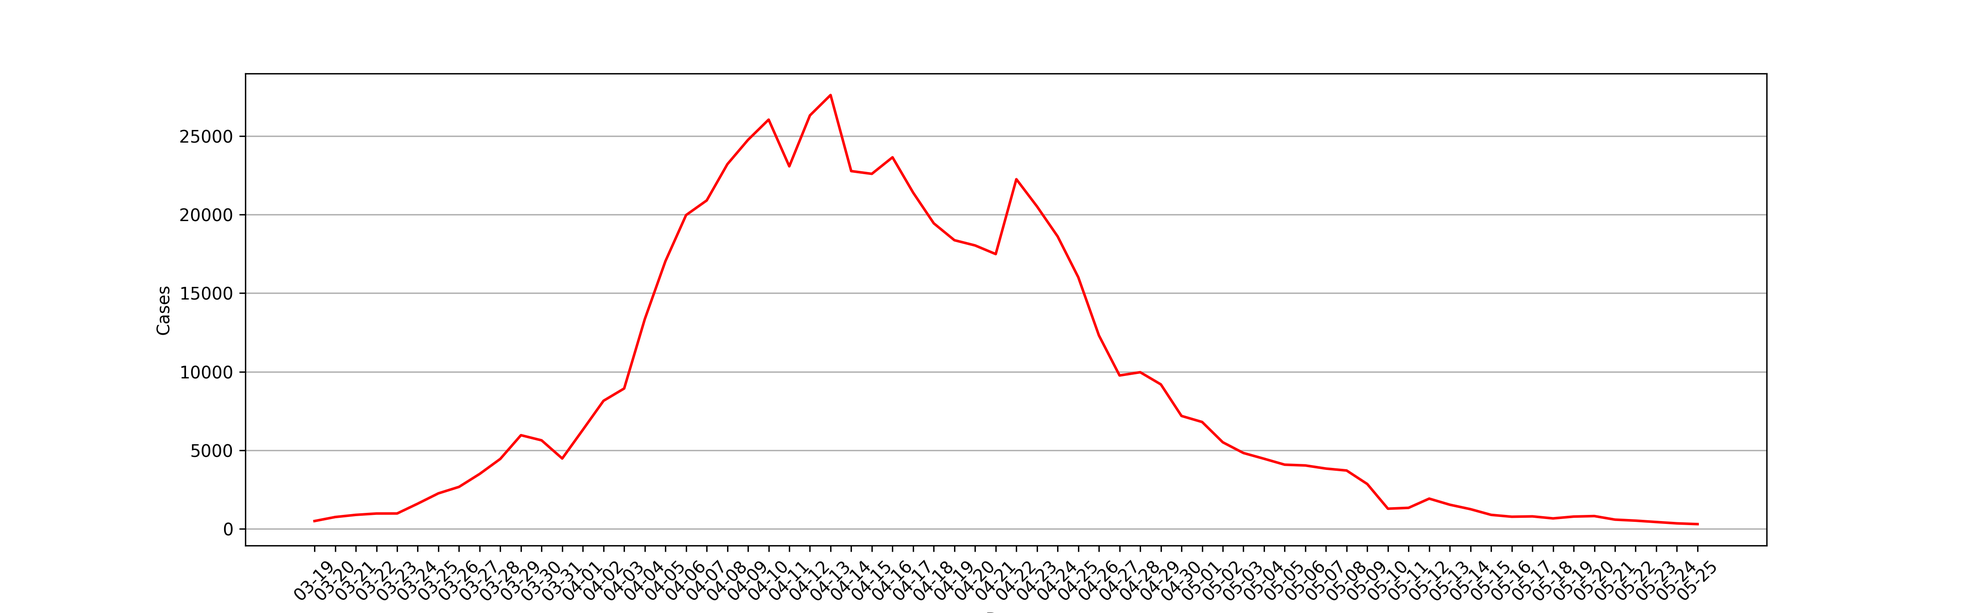
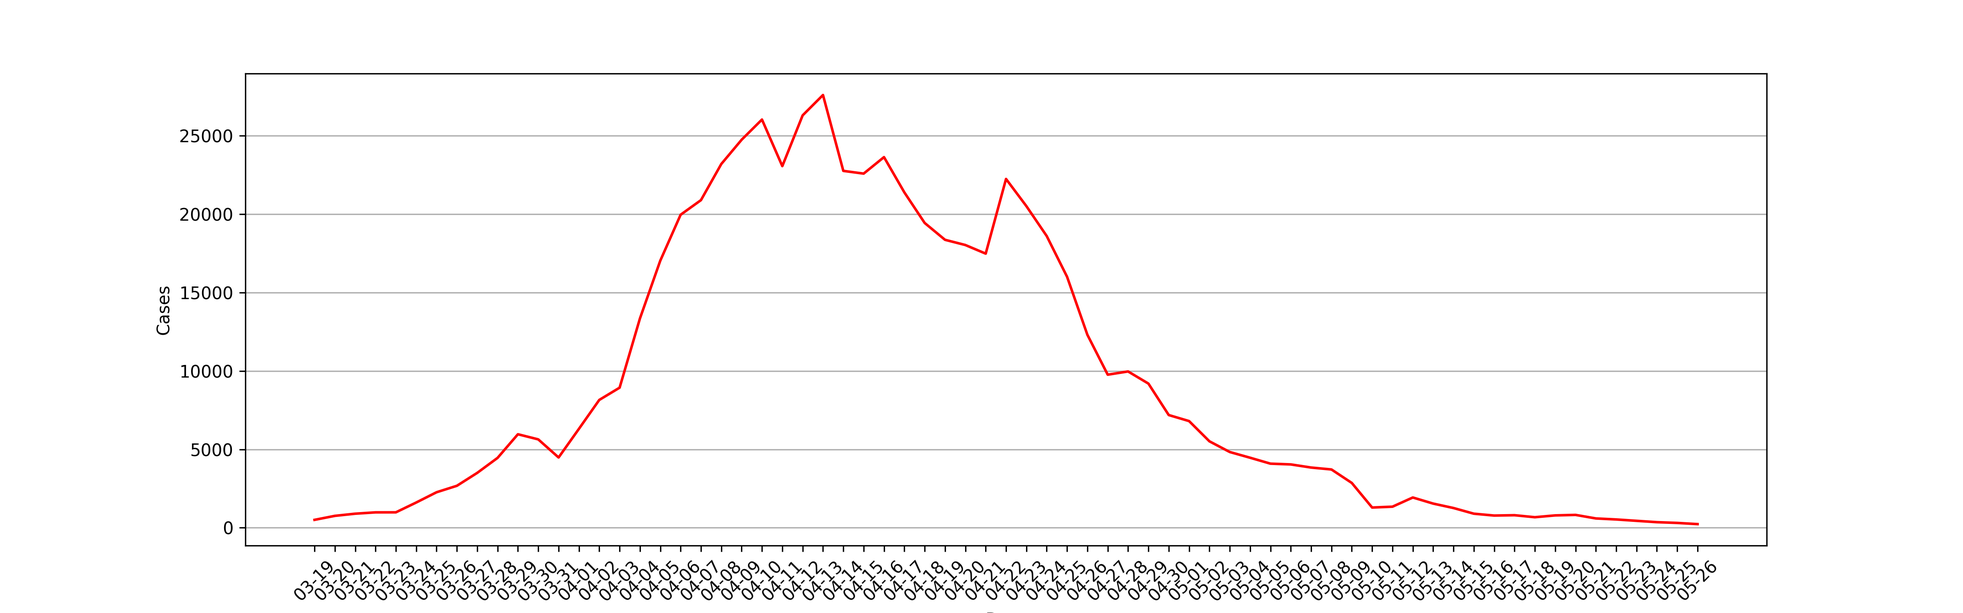
Commit by github action

diff --git a/archived_html/4765c98b92d42ada48abc79d053200a7.html b/archived_html/4765c98b92d42ada48abc79d053200a7.html
@@ -1,0 +1,151 @@
+<!DOCTYPE html>
+<html lang="zh-Hans">
+<head>
+    <meta charset="utf-8">
+    <meta http-equiv="Content-Security-Policy" content="upgrade-insecure-requests">
+    <meta name="viewport" content="width=device-width, initial-scale=1, maximum-scale=1, user-scalable=no">
+    <meta http-equiv="X-UA-Compatible" content="IE=Edge,chrome=1">
+    <meta http-equiv="Cache-Control" content="no-siteapp" />
+    <meta name="renderer" content="webkit">
+    <meta name="apple-mobile-web-app-capable" content="yes" />
+    <meta name="apple-mobile-web-app-status-bar-style" content="black" />
+    <title>上海2022年5月26日，新增本土新冠肺炎确诊病例45例 新增本土无症状感染者219例 新增境外输入性新冠肺炎确诊病例1例 新增境外输入性无症状感染者6例__上海市卫生健康委员会</title>
+    <meta name="ColumnDescription" content="新闻发布"><!-- * -->
+    <meta name="ColumnKeywords" content="新闻发布"><!-- * -->
+    <!--<meta name="ColumnType" content=""> * -->
+    <meta name="ColumnName" content="新闻发布"><!-- * -->
+    <meta name="ArticleTitle" content="上海2022年5月26日，新增本土新冠肺炎确诊病例45例 新增本土无症状感染者219例 新增境外输入性新冠肺炎确诊病例1例 新增境外输入性无症状感染者6例"><!-- * -->
+    <meta name="PubDate" content="2022-05-27"><!-- * -->
+    <meta name="ContentSource" content="上海市卫生健康委员会"><!-- * -->
+    <meta name="Author" content="上海市卫生健康委员会">
+    <meta name="Description" content="" />
+    <meta name="applicable-device" content="pc;mobile">
+    <meta name="location" content="北纬N31°11′51.89″ 东经E121°30′5.42″">
+    <!-- min CSS -->
+    <link rel="stylesheet" href="/assets/css/ETUI/ETUI3.min.css">
+    <!-- Custom CSS -->
+    <link rel="stylesheet" href="/assets/plugin/owl/owl.carousel.css">
+    <link rel="stylesheet" href="/assets/css/style.css">
+    <link rel="stylesheet" href="/assets/css/responsive.css">
+    <link rel="stylesheet" href="/assets/css/ETUI/ETUI3.Utility.css">
+    <!-- icons -->
+    <link rel="shortcut icon" href="/assets/img/ico/favicon.png">
+    <!-- 无障碍工具条 -->
+   <!-- <link rel="stylesheet" href="http://www.shanghai.gov.cn/jhelper_V2.0/jhelper_tool_style.css">
+    <script src="http://www.shanghai.gov.cn/jhelper_V2.0/wsj/jhelper_config.js" charset="gb2312"></script>
+    <noscript>不能读取工具条配置</noscript>
+    <script src="http://www.shanghai.gov.cn/jhelper_V2.0/jhelper_2.0.js" charset="gb2312"></script>
+    <noscript>不能读取工具条</noscript> 
+     -->
+    <script type="text/javascript">
+        function onsubmmit(pageIndex){
+            $("#pageIndex").val(1);
+            $("#searchField").val("0");
+            $("#timeScope").val("0");
+            $("#cmsSearchId").val("0");
+            $("#searchForm").submit();
+        }
+        function onselsubmmit(){
+            $("#pageIndex").val(1);
+            $("#searchForm").submit();
+        }
+        function psubmmit(pageIndex){
+            $("#pageIndex").val(pageIndex);
+            $("#searchForm").submit();
+        }
+        // 栏目
+        function chsubmmit(searchChId){
+            $("#pageIndex").val(1);
+            $("#searchField").val("0");
+            $("#timeScope").val("0");
+            $("#cmsSearchId").val(searchChId);
+            $("#searchForm").submit();
+        }
+    </script> 
+    <!-- 无障碍工具条 -->
+</head>
+<body>
+    <div id="accessNull"></div>
+    <div id="container">
+        <div class="channelinfo hidden"></div>
+        <script src="/assets/js/header.js"></script>
+        <div class="main" id="main">
+            <script src="/assets/js/jiansuo.js"></script>
+            <div class="main-container margin-top-15">
+                <div class="container ">
+                    <div class="relitive">
+                        <ol class="breadcrumb">
+                           <span>您现在所在的位置：</span>
+                            <li><a href="/index.html">首页</a></li>
+                            <li class="active">新闻中心</li>
+                           
+                            <li class="active">新闻发布</li>
+                           
+                        </ol>
+                        <div class="date-se">
+                            <i class="iconfont">&#xe60b;</i> <span id="time"></span>
+                        </div>
+                    </div>
+
+                    <div class="Article">
+                        <h2 id="ivs_title" class="Article-title">上海2022年5月26日，新增本土新冠肺炎确诊病例45例 新增本土无症状感染者219例 新增境外输入性新冠肺炎确诊病例1例 新增境外输入性无症状感染者6例</br>
+                         <h2 class="Article-title">
+                            <small id="ivs_date" class="Article-time">( 2022-05-27)</small>
+                        </h2>
+                        <div id="ivs_player" style="text-align:center;"></div>
+                        <div id="ivs_content" class="Article_content">
+                           
+                                 <p style="font-size: medium;white-space: normal;margin-top: 10px;text-indent: 40px"><span style="font-size: 20px;font-family: 仿宋_GB2312">市卫健委今早（27日）通报：2022年5月26日0—24时，新增本土新冠肺炎确诊病例45例和无症状感染者219例，其中33例确诊病例为既往无症状感染者转归，12例确诊病例和219例无症状感染者在隔离管控中发现。新增境外输入性确诊病例1例和无症状感染者6例，均在闭环管控中发现。</span></p><p style="font-size: medium;white-space: normal;margin-top: 10px;text-indent: 40px"><span style="font-size: 20px;font-family: 仿宋_GB2312">2022</span><span style="font-size: 20px;font-family: 仿宋_GB2312">年5月26日0—24时，新增本土新冠肺炎确诊病例45例，含33例由既往无症状感染者转为确诊病例。新增治愈出院128例。</span></p><p style="font-size: medium;white-space: normal;margin-top: 10px;text-indent: 40px"><strong><span style="font-size: 20px;font-family: 黑体">病例1</span></strong><span style="font-size: 20px;font-family: 仿宋_GB2312">，居住于徐汇区，</span><strong><span style="font-size: 20px;font-family: 黑体">病例2、病例3</span></strong><span style="font-size: 20px;font-family: 仿宋_GB2312">，居住于静安区，</span><strong><span style="font-size: 20px;font-family: 黑体">病例4</span></strong><span style="font-size: 20px;font-family: 仿宋_GB2312">，居住于普陀区，</span><strong><span style="font-size: 20px;font-family: 黑体">病例5—病例7</span></strong><span style="font-size: 20px;font-family: 仿宋_GB2312">，居住于虹口区，</span><strong><span style="font-size: 20px;font-family: 黑体">病例8—病例10</span></strong><span style="font-size: 20px;font-family: 仿宋_GB2312">，居住于杨浦区，</span><strong><span style="font-size: 20px;font-family: 黑体">病例11、病例12</span></strong><span style="font-size: 20px;font-family: 仿宋_GB2312">，居住于闵行区，均为本市闭环隔离管控人员，其间新冠病毒核酸检测结果异常，经疾控中心复核结果为阳性。经市级专家会诊，综合流行病学史、临床症状、实验室检测和影像学检查结果等，诊断为确诊病例。</span></p><p style="font-size: medium;white-space: normal;margin-top: 10px;text-indent: 40px"><strong><span style="font-size: 20px;font-family: 黑体">病例13</span></strong><span style="font-size: 20px;font-family: 仿宋_GB2312">，居住于黄浦区，</span><strong><span style="font-size: 20px;font-family: 黑体">病例14</span></strong><span style="font-size: 20px;font-family: 仿宋_GB2312">，居住于徐汇区，</span><strong><span style="font-size: 20px;font-family: 黑体">病例15、病例16</span></strong><span style="font-size: 20px;font-family: 仿宋_GB2312">，居住于静安区，</span><strong><span style="font-size: 20px;font-family: 黑体">病例17、病例18</span></strong><span style="font-size: 20px;font-family: 仿宋_GB2312">，居住于虹口区，</span><strong><span style="font-size: 20px;font-family: 黑体">病例19—病例39</span></strong><span style="font-size: 20px;font-family: 仿宋_GB2312">，居住于杨浦区，</span><strong><span style="font-size: 20px;font-family: 黑体">病例40、病例41</span></strong><span style="font-size: 20px;font-family: 仿宋_GB2312">，居住于闵行区，</span><strong><span style="font-size: 20px;font-family: 黑体">病例42—病例44</span></strong><span style="font-size: 20px;font-family: 仿宋_GB2312">，居住于宝山区，</span><strong><span style="font-size: 20px;font-family: 黑体">病例45</span></strong><span style="font-size: 20px;font-family: 仿宋_GB2312">，居住于嘉定区，</span><span style="font-size: 20px;font-family: 仿宋_GB2312">为此前报告的本土无症状感染者。</span><span style="font-size: 20px;font-family: 仿宋_GB2312">经市级专家会诊，综合流行病学史、临床症状、实验室检测和影像学检查结果等，诊断为确诊病例。</span></p><p style="font-size: medium;white-space: normal;text-indent: 40px"><span style="font-size: 20px;font-family: 仿宋_GB2312">2022</span><span style="font-size: 20px;font-family: 仿宋_GB2312">年5月26日0—24时，新增本土死亡1例。患者女性，87岁，合并有冠心病、急性心功能不全、I型呼吸衰竭、高血压、糖尿病等基础疾病，入院后因病情加重，抢救无效死亡。死亡原因为基础疾病。</span></p><p style="font-size: medium;white-space: normal;margin-top: 10px;text-indent: 40px"><span style="font-size: 20px;font-family: 仿宋_GB2312">2022</span><span style="font-size: 20px;font-family: 仿宋_GB2312">年5月26日0—24时，新增本土无症状感染者219例。</span></p><p style="font-size: medium;white-space: normal;text-indent: 40px"><strong><span style="font-size: 20px;font-family: 黑体">无症状感染者1—无症状感染者35</span></strong><span style="font-size: 20px;font-family: 仿宋_GB2312">，居住于浦东新区，</span><strong><span style="font-size: 20px;font-family: 黑体">无症状感染者36—无症状感染者53</span></strong><span style="font-size: 20px;font-family: 仿宋_GB2312">，居住于黄浦区，</span><strong><span style="font-size: 20px;font-family: 黑体">无症状感染者54—无症状感染者69</span></strong><span style="font-size: 20px;font-family: 仿宋_GB2312">，居住于徐汇区，</span><strong><span style="font-size: 20px;font-family: 黑体">无症状感染者70—无症状感染者77</span></strong><span style="font-size: 20px;font-family: 仿宋_GB2312">，居住于长宁区，</span><strong><span style="font-size: 20px;font-family: 黑体">无症状感染者78—无症状感染者105</span></strong><span style="font-size: 20px;font-family: 仿宋_GB2312">，居住于静安区，</span><strong><span style="font-size: 20px;font-family: 黑体">无症状感染者106—无症状感染者110</span></strong><span style="font-size: 20px;font-family: 仿宋_GB2312">，居住于普陀区，</span><strong><span style="font-size: 20px;font-family: 黑体">无症状感染者111—无症状感染者135</span></strong><span style="font-size: 20px;font-family: 仿宋_GB2312">，居住于虹口区，</span><strong><span style="font-size: 20px;font-family: 黑体">无症状感染者136—无症状感染者184</span></strong><span style="font-size: 20px;font-family: 仿宋_GB2312">，居住于杨浦区，</span><strong><span style="font-size: 20px;font-family: 黑体">无症状感染者185—无症状感染者195</span></strong><span style="font-size: 20px;font-family: 仿宋_GB2312">，居住于闵行区，</span><strong><span style="font-size: 20px;font-family: 黑体">无症状感染者196—无症状感染者210</span></strong><span style="font-size: 20px;font-family: 仿宋_GB2312">，居住于宝山区，</span><strong><span style="font-size: 20px;font-family: 黑体">无症状感染者211—无症状感染者213</span></strong><span style="font-size: 20px;font-family: 仿宋_GB2312">，居住于嘉定区，</span><strong><span style="font-size: 20px;font-family: 黑体">无症状感染者214、无症状感染者215</span></strong><span style="font-size: 20px;font-family: 仿宋_GB2312">，居住于松江区，</span><strong><span style="font-size: 20px;font-family: 黑体">无症状感染者216—无症状感染者219</span></strong><span style="font-size: 20px;font-family: 仿宋_GB2312">，居住于青浦区，</span><span style="font-size: 20px;font-family: 仿宋_GB2312">均为本市闭环隔离管控人员，其间新冠病毒核酸检测结果</span><span style="font-size: 20px;font-family: 仿宋_GB2312">异常，经疾控中心复核结果为阳性，诊断为无症状感染者。</span></p><p style="font-size: medium;white-space: normal;text-indent: 40px"><span style="font-size: 20px;font-family: 仿宋_GB2312">2022</span><span style="font-size: 20px;font-family: 仿宋_GB2312">年5月26日0—24时，</span><span style="font-size: 20px;font-family: 仿宋_GB2312">通过口岸联防联控机制，报告1例新增境外输入性新冠肺炎确诊病例。</span></p><p style="font-size: medium;white-space: normal;text-indent: 40px"><strong><span style="font-size: 20px;font-family: 黑体">该病例</span></strong><span style="font-size: 20px;font-family: 仿宋_GB2312">为中国籍，在蒙古工作，自蒙古出发，经德国转机，于2022年5月24日抵达上海浦东国际机场，入关后即被集中隔离观察，其间出现症状。综合流行病学史、临床症状、实验室检测和影像学检查结果等，诊断为确诊病例。</span></p><p style="font-size: medium;white-space: normal;text-indent: 40px"><span style="font-size: 20px;font-family: 仿宋_GB2312">该境外输入性确诊病例已转至定点医疗机构救治，已追踪同航班密切接触者38人，均已落实集中隔离观察。</span></p><p style="font-size: medium;white-space: normal;text-indent: 40px"><span style="font-size: 20px;font-family: 仿宋_GB2312">2022</span><span style="font-size: 20px;font-family: 仿宋_GB2312">年5月26日0—24时，新增境外输入性无症状感染者6例。</span></p><p style="font-size: medium;white-space: normal;text-indent: 40px"><strong><span style="font-size: 20px;font-family: 黑体">无症状感染者1</span></strong><span style="font-size: 20px;font-family: 仿宋_GB2312">为中国籍，在巴西工作，自巴西出发，经荷兰转机，于2022年5月18日抵达上海浦东国际机场，入关后即被集中隔离观察，其间例行核酸检测异常。经排查，区疾控中心新冠病毒核酸检测结果为阳性。综合流行病学史、临床症状、实验室检测和影像学检查结果等，诊断为无症状感染者。</span></p><p style="font-size: medium;white-space: normal;text-indent: 40px"><strong><span style="font-size: 20px;font-family: 黑体">无症状感染者2</span></strong><span style="font-size: 20px;font-family: 仿宋_GB2312">为中国籍，在英国留学，自英国出发，经丹麦转机，于2022年5月18日抵达上海浦东国际机场，入关后即被集中隔离观察，其间例行核酸检测异常。经排查，区疾控中心新冠病毒核酸检测结果为阳性。综合流行病学史、临床症状、实验室检测和影像学检查结果等，诊断为无症状感染者。</span></p><p style="font-size: medium;white-space: normal;text-indent: 40px"><strong><span style="font-size: 20px;font-family: 黑体">无症状感染者3</span></strong><span style="font-size: 20px;font-family: 仿宋_GB2312">为中国籍，在美国留学，自美国出发，于2022年5月19日抵达上海浦东国际机场，入关后即被集中隔离观察，其间例行核酸检测异常。经排查，区疾控中心新冠病毒核酸检测结果为阳性。综合流行病学史、临床症状、实验室检测和影像学检查结果等，诊断为无症状感染者。</span></p><p style="font-size: medium;white-space: normal;text-indent: 40px"><strong><span style="font-size: 20px;font-family: 黑体">无症状感染者4</span></strong><span style="font-size: 20px;font-family: 仿宋_GB2312">为中国籍，在美国留学，自美国出发，于2022年5月23日抵达上海浦东国际机场，入关后即被集中隔离观察，其间例行核酸检测异常。经排查，区疾控中心新冠病毒核酸检测结果为阳性。综合流行病学史、临床症状、实验室检测和影像学检查结果等，诊断为无症状感染者。</span></p><p style="font-size: medium;white-space: normal;text-indent: 40px"><strong><span style="font-size: 20px;font-family: 黑体">无症状感染者5</span></strong><span style="font-size: 20px;font-family: 仿宋_GB2312">为中国籍，在巴西工作，自巴西出发，经德国转机，于2022年5月24日抵达上海浦东国际机场，入关后即被集中隔离观察，其间例行核酸检测异常。经排查，区疾控中心新冠病毒核酸检测结果为阳性。综合流行病学史、临床症状、实验室检测和影像学检查结果等，诊断为无症状感染者。</span></p><p style="font-size: medium;white-space: normal;text-indent: 40px"><strong><span style="font-size: 20px;font-family: 黑体">无症状感染者6</span></strong><span style="font-size: 20px;font-family: 仿宋_GB2312">为中国籍，在美国留学，自美国出发，于2022年5月25日抵达上海浦东国际机场，入关后即被集中隔离观察，其间例行核酸检测异常。经排查，区疾控中心新冠病毒核酸检测结果为阳性。综合流行病学史、临床症状、实验室检测和影像学检查结果等，诊断为无症状感染者。</span></p><p style="font-size: medium;white-space: normal;text-indent: 40px"><span style="font-size: 20px;font-family: 仿宋_GB2312">6</span><span style="font-size: 20px;font-family: 仿宋_GB2312">例境外输入性无症状感染者已转至定点医疗机构医学观察，已追踪同航班密切接触者39人，均已落实集中隔离观察。</span></p><p style="font-size: medium;white-space: normal;text-indent: 40px"><span style="font-size: 20px;font-family: 仿宋_GB2312">2022</span><span style="font-size: 20px;font-family: 仿宋_GB2312">年5月26日0—24时，解除医学观察无症状感染者2905例，其中本土无症状感染者2903例，境外输入性无症状感染者2例。</span></p><p style="font-size: medium;white-space: normal;margin-top: 10px;text-indent: 40px;vertical-align: baseline"><span style="font-size: 20px;font-family: 仿宋_GB2312">2022</span><span style="font-size: 20px;font-family: 仿宋_GB2312">年2月26日0时至2022年5月26日24时，累计本土确诊57912例，治愈出院55515例，在院治疗1809例（其中重型119例，危重型33例），死亡588。现有待排查的疑似病例0例。</span></p><p style="font-size: medium;white-space: normal;margin-top: 10px;text-indent: 40px;vertical-align: baseline"><span style="font-size: 20px;font-family: 仿宋_GB2312">截至2022年5月26日24时，累计境外输入性确诊病例4607例，出院4599例，在院治疗8例。现有待排查的疑似病例0例。</span></p><p style="font-size: medium;white-space: normal;margin-top: 10px;text-indent: 40px;vertical-align: baseline"><span style="font-size: 20px;font-family: 仿宋_GB2312">&nbsp;</span></p><table align="center" cellspacing="0" cellpadding="0" width="544"><tbody><tr style="height: 24px" class="firstRow"><td width="379" colspan="2" style="border-width: 1px; border-color: windowtext; padding: 0px 7px; border-style: solid;" height="24"><p style="text-align: center;vertical-align: baseline"><strong><span style="font-size: 19px;font-family: 仿宋_GB2312">区域</span></strong></p></td><td width="165" style="border-width: 1px; border-top-color: windowtext; border-right-color: windowtext; border-bottom-color: windowtext; border-style: solid; border-left-color: initial; padding: 0px 7px;" height="24"><p style="text-align: center;vertical-align: baseline"><strong><span style="font-size: 19px;font-family: 仿宋_GB2312">在院治疗确诊病例</span></strong></p></td></tr><tr style="height: 42px"><td width="213" rowspan="5" style="border-width: 1px; border-right-color: windowtext; border-bottom-color: windowtext; border-left-color: windowtext; border-style: solid; border-top-color: initial; padding: 0px 7px;" height="42"><p style="text-align: center;vertical-align: baseline"><span style="font-size: 19px;font-family: 仿宋_GB2312">境外输入人员</span></p><p style="text-align: center;vertical-align: baseline"><span style="font-size: 19px;font-family: 仿宋_GB2312">（按输入地分）</span></p></td><td width="165" valign="top" style="border-width: 1px; border-style: solid; border-top-color: initial; border-left-color: initial; border-bottom-color: windowtext; border-right-color: windowtext; padding: 0px 7px;" height="42"><p style="text-align: center;vertical-align: middle"><span style="font-size: 19px;font-family: 仿宋_GB2312">美国</span></p></td><td width="165" valign="top" style="border-width: 1px; border-style: solid; border-top-color: initial; border-left-color: initial; border-bottom-color: windowtext; border-right-color: windowtext; padding: 0px 7px;" height="42"><p style="text-align: center;vertical-align: middle"><span style="font-size: 19px;font-family: 仿宋_GB2312">4</span></p></td></tr><tr style="height: 42px"><td width="165" valign="top" style="border-width: 1px; border-style: solid; border-top-color: initial; border-left-color: initial; border-bottom-color: windowtext; border-right-color: windowtext; padding: 0px 7px;" height="42"><p style="text-align: center;vertical-align: middle"><span style="font-size: 19px;font-family: 仿宋_GB2312">新加坡</span></p></td><td width="165" valign="top" style="border-width: 1px; border-style: solid; border-top-color: initial; border-left-color: initial; border-bottom-color: windowtext; border-right-color: windowtext; padding: 0px 7px;" height="42"><p style="text-align: center;vertical-align: middle"><span style="font-size: 19px;font-family: 仿宋_GB2312">1</span></p></td></tr><tr style="height: 42px"><td width="165" valign="top" style="border-width: 1px; border-style: solid; border-top-color: initial; border-left-color: initial; border-bottom-color: windowtext; border-right-color: windowtext; padding: 0px 7px;" height="42"><p style="text-align: center;vertical-align: middle"><span style="font-size: 19px;font-family: 仿宋_GB2312">加拿大</span></p></td><td width="165" valign="top" style="border-width: 1px; border-style: solid; border-top-color: initial; border-left-color: initial; border-bottom-color: windowtext; border-right-color: windowtext; padding: 0px 7px;" height="42"><p style="text-align: center;vertical-align: middle"><span style="font-size: 19px;font-family: 仿宋_GB2312">1</span></p></td></tr><tr style="height: 42px"><td width="165" valign="top" style="border-width: 1px; border-style: solid; border-top-color: initial; border-left-color: initial; border-bottom-color: windowtext; border-right-color: windowtext; padding: 0px 7px;" height="42"><p style="text-align: center;vertical-align: middle"><span style="font-size: 19px;font-family: 仿宋_GB2312">刚果（金）</span></p></td><td width="165" valign="top" style="border-width: 1px; border-style: solid; border-top-color: initial; border-left-color: initial; border-bottom-color: windowtext; border-right-color: windowtext; padding: 0px 7px;" height="42"><p style="text-align: center;vertical-align: middle"><span style="font-size: 19px;font-family: 仿宋_GB2312">1</span></p></td></tr><tr style="height: 42px"><td width="165" valign="top" style="border-width: 1px; border-style: solid; border-top-color: initial; border-left-color: initial; border-bottom-color: windowtext; border-right-color: windowtext; padding: 0px 7px;" height="42"><p style="text-align: center;vertical-align: middle"><span style="font-size: 19px;font-family: 仿宋_GB2312">蒙古</span></p></td><td width="165" valign="top" style="border-width: 1px; border-style: solid; border-top-color: initial; border-left-color: initial; border-bottom-color: windowtext; border-right-color: windowtext; padding: 0px 7px;" height="42"><p style="text-align: center;vertical-align: middle"><span style="font-size: 19px;font-family: 仿宋_GB2312">1</span></p></td></tr><tr style="height: 33px"><td width="213" rowspan="16" style="border-width: 1px; border-right-color: windowtext; border-bottom-color: windowtext; border-left-color: windowtext; border-style: solid; border-top-color: initial; padding: 0px 7px;" height="33"><p style="text-indent: 19px;vertical-align: baseline"><span style="font-size: 19px;font-family: 仿宋_GB2312">本市居住或工作地</span></p></td><td width="165" style="border-width: 1px; border-style: solid; border-top-color: initial; border-left-color: initial; border-bottom-color: windowtext; border-right-color: windowtext; padding: 0px 7px;" height="33"><p style="text-align: center;vertical-align: middle"><span style="font-size: 19px;font-family: 仿宋_GB2312">浦东</span></p></td><td width="165" style="border-width: 1px; border-style: solid; border-top-color: initial; border-left-color: initial; border-bottom-color: windowtext; border-right-color: windowtext; padding: 0px 7px;" height="33"><p style="text-align: center"><span style="font-size: 19px;font-family: 仿宋_GB2312">66</span></p></td></tr><tr style="height: 33px"><td width="165" style="border-width: 1px; border-style: solid; border-top-color: initial; border-left-color: initial; border-bottom-color: windowtext; border-right-color: windowtext; padding: 0px 7px;" height="33"><p style="text-align: center;vertical-align: middle"><span style="font-size: 19px;font-family: 仿宋_GB2312">黄浦</span></p></td><td width="165" style="border-width: 1px; border-style: solid; border-top-color: initial; border-left-color: initial; border-bottom-color: windowtext; border-right-color: windowtext; padding: 0px 7px;" height="33"><p style="text-align: center"><span style="font-size: 19px;font-family: 仿宋_GB2312">243</span></p></td></tr><tr style="height: 33px"><td width="165" style="border-width: 1px; border-style: solid; border-top-color: initial; border-left-color: initial; border-bottom-color: windowtext; border-right-color: windowtext; padding: 0px 7px;" height="33"><p style="text-align: center;vertical-align: middle"><span style="font-size: 19px;font-family: 仿宋_GB2312">徐汇</span></p></td><td width="165" style="border-width: 1px; border-style: solid; border-top-color: initial; border-left-color: initial; border-bottom-color: windowtext; border-right-color: windowtext; padding: 0px 7px;" height="33"><p style="text-align: center"><span style="font-size: 19px;font-family: 仿宋_GB2312">291</span></p></td></tr><tr style="height: 33px"><td width="165" style="border-width: 1px; border-style: solid; border-top-color: initial; border-left-color: initial; border-bottom-color: windowtext; border-right-color: windowtext; padding: 0px 7px;" height="33"><p style="text-align: center;vertical-align: middle"><span style="font-size: 19px;font-family: 仿宋_GB2312">长宁</span></p></td><td width="165" style="border-width: 1px; border-style: solid; border-top-color: initial; border-left-color: initial; border-bottom-color: windowtext; border-right-color: windowtext; padding: 0px 7px;" height="33"><p style="text-align: center"><span style="font-size: 19px;font-family: 仿宋_GB2312">97</span></p></td></tr><tr style="height: 33px"><td width="165" style="border-width: 1px; border-style: solid; border-top-color: initial; border-left-color: initial; border-bottom-color: windowtext; border-right-color: windowtext; padding: 0px 7px;" height="33"><p style="text-align: center;vertical-align: middle"><span style="font-size: 19px;font-family: 仿宋_GB2312">静安</span></p></td><td width="165" style="border-width: 1px; border-style: solid; border-top-color: initial; border-left-color: initial; border-bottom-color: windowtext; border-right-color: windowtext; padding: 0px 7px;" height="33"><p style="text-align: center"><span style="font-size: 19px;font-family: 仿宋_GB2312">290</span></p></td></tr><tr style="height: 33px"><td width="165" style="border-width: 1px; border-style: solid; border-top-color: initial; border-left-color: initial; border-bottom-color: windowtext; border-right-color: windowtext; padding: 0px 7px;" height="33"><p style="text-align: center;vertical-align: middle"><span style="font-size: 19px;font-family: 仿宋_GB2312">普陀</span></p></td><td width="165" style="border-width: 1px; border-style: solid; border-top-color: initial; border-left-color: initial; border-bottom-color: windowtext; border-right-color: windowtext; padding: 0px 7px;" height="33"><p style="text-align: center"><span style="font-size: 19px;font-family: 仿宋_GB2312">133</span></p></td></tr><tr style="height: 33px"><td width="165" style="border-width: 1px; border-style: solid; border-top-color: initial; border-left-color: initial; border-bottom-color: windowtext; border-right-color: windowtext; padding: 0px 7px;" height="33"><p style="text-align: center;vertical-align: middle"><span style="font-size: 19px;font-family: 仿宋_GB2312">虹口</span></p></td><td width="165" style="border-width: 1px; border-style: solid; border-top-color: initial; border-left-color: initial; border-bottom-color: windowtext; border-right-color: windowtext; padding: 0px 7px;" height="33"><p style="text-align: center"><span style="font-size: 19px;font-family: 仿宋_GB2312">223</span></p></td></tr><tr style="height: 33px"><td width="165" style="border-width: 1px; border-style: solid; border-top-color: initial; border-left-color: initial; border-bottom-color: windowtext; border-right-color: windowtext; padding: 0px 7px;" height="33"><p style="text-align: center;vertical-align: middle"><span style="font-size: 19px;font-family: 仿宋_GB2312">杨浦</span></p></td><td width="165" style="border-width: 1px; border-style: solid; border-top-color: initial; border-left-color: initial; border-bottom-color: windowtext; border-right-color: windowtext; padding: 0px 7px;" height="33"><p style="text-align: center"><span style="font-size: 19px;font-family: 仿宋_GB2312">431</span></p></td></tr><tr style="height: 33px"><td width="165" style="border-width: 1px; border-style: solid; border-top-color: initial; border-left-color: initial; border-bottom-color: windowtext; border-right-color: windowtext; padding: 0px 7px;" height="33"><p style="text-align: center;vertical-align: middle"><span style="font-size: 19px;font-family: 仿宋_GB2312">闵行</span></p></td><td width="165" style="border-width: 1px; border-style: solid; border-top-color: initial; border-left-color: initial; border-bottom-color: windowtext; border-right-color: windowtext; padding: 0px 7px;" height="33"><p style="text-align: center"><span style="font-size: 19px;font-family: 仿宋_GB2312">9</span></p></td></tr><tr style="height: 33px"><td width="165" style="border-width: 1px; border-style: solid; border-top-color: initial; border-left-color: initial; border-bottom-color: windowtext; border-right-color: windowtext; padding: 0px 7px;" height="33"><p style="text-align: center;vertical-align: middle"><span style="font-size: 19px;font-family: 仿宋_GB2312">宝山</span></p></td><td width="165" style="border-width: 1px; border-style: solid; border-top-color: initial; border-left-color: initial; border-bottom-color: windowtext; border-right-color: windowtext; padding: 0px 7px;" height="33"><p style="text-align: center"><span style="font-size: 19px;font-family: 仿宋_GB2312">8</span></p></td></tr><tr style="height: 33px"><td width="165" style="border-width: 1px; border-style: solid; border-top-color: initial; border-left-color: initial; border-bottom-color: windowtext; border-right-color: windowtext; padding: 0px 7px;" height="33"><p style="text-align: center;vertical-align: middle"><span style="font-size: 19px;font-family: 仿宋_GB2312">嘉定</span></p></td><td width="165" style="border-width: 1px; border-style: solid; border-top-color: initial; border-left-color: initial; border-bottom-color: windowtext; border-right-color: windowtext; padding: 0px 7px;" height="33"><p style="text-align: center"><span style="font-size: 19px;font-family: 仿宋_GB2312">2</span></p></td></tr><tr style="height: 33px"><td width="165" style="border-width: 1px; border-style: solid; border-top-color: initial; border-left-color: initial; border-bottom-color: windowtext; border-right-color: windowtext; padding: 0px 7px;" height="33"><p style="text-align: center;vertical-align: middle"><span style="font-size: 19px;font-family: 仿宋_GB2312">金山</span></p></td><td width="165" style="border-width: 1px; border-style: solid; border-top-color: initial; border-left-color: initial; border-bottom-color: windowtext; border-right-color: windowtext; padding: 0px 7px;" height="33"><p style="text-align: center"><span style="font-size: 19px;font-family: 仿宋_GB2312">1</span></p></td></tr><tr style="height: 33px"><td width="165" style="border-width: 1px; border-style: solid; border-top-color: initial; border-left-color: initial; border-bottom-color: windowtext; border-right-color: windowtext; padding: 0px 7px;" height="33"><p style="text-align: center;vertical-align: middle"><span style="font-size: 19px;font-family: 仿宋_GB2312">松江</span></p></td><td width="165" style="border-width: 1px; border-style: solid; border-top-color: initial; border-left-color: initial; border-bottom-color: windowtext; border-right-color: windowtext; padding: 0px 7px;" height="33"><p style="text-align: center"><span style="font-size: 19px;font-family: 仿宋_GB2312">1</span></p></td></tr><tr style="height: 33px"><td width="165" style="border-width: 1px; border-style: solid; border-top-color: initial; border-left-color: initial; border-bottom-color: windowtext; border-right-color: windowtext; padding: 0px 7px;" height="33"><p style="text-align: center;vertical-align: middle"><span style="font-size: 19px;font-family: 仿宋_GB2312">青浦</span></p></td><td width="165" style="border-width: 1px; border-style: solid; border-top-color: initial; border-left-color: initial; border-bottom-color: windowtext; border-right-color: windowtext; padding: 0px 7px;" height="33"><p style="text-align: center"><span style="font-size: 19px;font-family: 仿宋_GB2312">1</span></p></td></tr><tr style="height: 33px"><td width="165" style="border-width: 1px; border-style: solid; border-top-color: initial; border-left-color: initial; border-bottom-color: windowtext; border-right-color: windowtext; padding: 0px 7px;" height="33"><p style="text-align: center;vertical-align: middle"><span style="font-size: 19px;font-family: 仿宋_GB2312">奉贤</span></p></td><td width="165" style="border-width: 1px; border-style: solid; border-top-color: initial; border-left-color: initial; border-bottom-color: windowtext; border-right-color: windowtext; padding: 0px 7px;" height="33"><p style="text-align: center"><span style="font-size: 19px;font-family: 仿宋_GB2312">4</span></p></td></tr><tr style="height: 33px"><td width="165" style="border-width: 1px; border-style: solid; border-top-color: initial; border-left-color: initial; border-bottom-color: windowtext; border-right-color: windowtext; padding: 0px 7px;" height="33"><p style="text-align: center;vertical-align: middle"><span style="font-size: 19px;font-family: 仿宋_GB2312">崇明</span></p></td><td width="165" style="border-width: 1px; border-style: solid; border-top-color: initial; border-left-color: initial; border-bottom-color: windowtext; border-right-color: windowtext; padding: 0px 7px;" height="33"><p style="text-align: center"><span style="font-size: 19px;font-family: 仿宋_GB2312">9</span></p></td></tr><tr style="height: 33px"><td width="379" colspan="2" style="border-width: 1px; border-right-color: windowtext; border-bottom-color: windowtext; border-left-color: windowtext; border-style: solid; border-top-color: initial; padding: 0px 7px;" height="33"><p style="text-align: center;vertical-align: baseline"><span style="font-size: 19px;font-family: 仿宋_GB2312">合计</span></p></td><td width="165" style="border-width: 1px; border-style: solid; border-top-color: initial; border-left-color: initial; border-bottom-color: windowtext; border-right-color: windowtext; padding: 0px 7px;" height="33"><p style="text-align: center;vertical-align: baseline"><span style="font-size: 19px;font-family: 仿宋_GB2312">1817</span></p></td></tr></tbody></table><p style="font-size: medium;white-space: normal;margin-top: 10px;text-indent: 43px;vertical-align: baseline"><span style="font-size: 21px;font-family: Calibri, sans-serif">&nbsp;</span></p><p style="font-size: medium;white-space: normal;margin-top: 10px;text-indent: 43px;vertical-align: baseline"><span style="font-size: 21px;font-family: Calibri, sans-serif">&nbsp;</span></p><p><br/></p>
+                        </div>
+                        </div>
+                    </div>
+                </div>
+            </div>
+        </div>
+        <script src="/assets/js/footer.js"></script>
+        </div>
+    <!--Main JS-->
+    <script src="/assets/js/ETUI/jquery.min.1.12.4.js"></script>
+    <!--[if lt IE 9]>
+    <script src="/assets/js/ETUI/html5shiv.min.js"></script>
+    <script src="/assets/js/ETUI/respond.min.js"></script>
+    <![endif]-->
+    <script src="/assets/js/ETUI/ETUI3.min.js"></script>
+    <script src="/assets/plugin/owl/owl.carousel.min.js"></script>
+    <!--Custom JS-->
+    <script src="/assets/js/main.js"></script>
+    <script src="/assets/js/language.js"></script>
+    <!-- <script src="/assets/js/Time.js"></script> -->
+    <!--
+  <script src="/assets/js/jhelper_config.js" charset="gb2312"></script>
+<script type="text/javascript" src="https://jhelper.shanghai.gov.cn/publicJS/3100000010.js"></script>
+-->
+<script src="https://wsjkw.sh.gov.cn/wza/jhelper_config.js" charset="gb2312"></script>
+    <script type="text/javascript" src="http://jhelper.shanghai.gov.cn/publicJS/3100000010.js"></script>
+   <!-- <script type="text/javascript" src="http://voice.ewdcloud.com.cn:9292/js/ew_msc.js"></script>-->
+    <script>
+        jQuery(document).ready(function () {
+            Main.init();
+        });
+        jQuery(document).ready(function () {
+	        getToolbarMod();
+        });
+    </script>
+    <script>
+        function currentTime(){
+            var d = new Date(),str = '';
+            str += d.getFullYear()+'年';
+            str  += d.getMonth() + 1+'月';
+            str  += d.getDate()+'日';
+            var a = new Array("日", "一", "二", "三", "四", "五", "六");
+            var week = new Date().getDay();
+            var tody = "星期"+ a[week];
+            str +=' ';
+            str  += tody ;
+            return str;
+
+        }
+        setInterval(function(){$('#time').html(currentTime)},1000);
+    </script>
+</body>
+</html>

diff --git a/README.md b/README.md
@@ -35,6 +35,7 @@ git clone --depeth=1 https://github.com/lewangdev/shanghai-lockdown-covid-19.git
 
 | Date/Details | New Cases(*)  | Deaths | Confirmed Cases | Asymptomatic Cases | A2C Cases(*) |
 | ---- | ---------- | ---------- | ---------------- | ----------------- | ---------------------------- |
+| 2022-05-26 | 231 | 1 | 45 | 219 | 33 |
 | 2022-05-25 | 307 | 1 | 48 | 290 | 31 |
 | 2022-05-24 | 355 | 0 | 44 | 343 | 32 |
 | 2022-05-23 | 441 | 1 | 58 | 422 | 39 |
@@ -113,6 +114,7 @@ git clone --depeth=1 https://github.com/lewangdev/shanghai-lockdown-covid-19.git
 
 | Date | Total Cases  | Total Deaths | Case‑Fatality-Rate |
 | ---- | ---------- | ---------- | ---------- |
+| 2022-05-26 | 624599 | 588 | 0.0941% |
 | 2022-05-25 | 624368 | 587 | 0.0940% |
 | 2022-05-24 | 624061 | 586 | 0.0939% |
 | 2022-05-23 | 623706 | 586 | 0.0940% |
